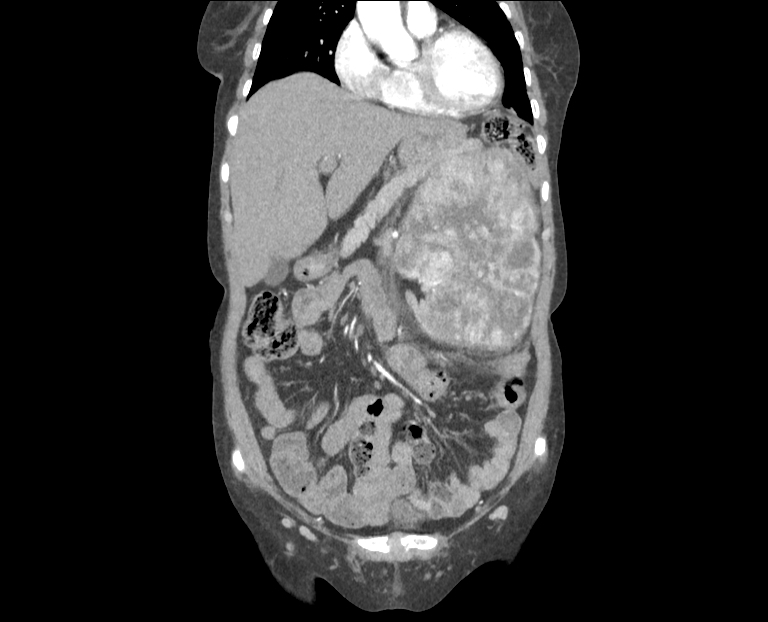
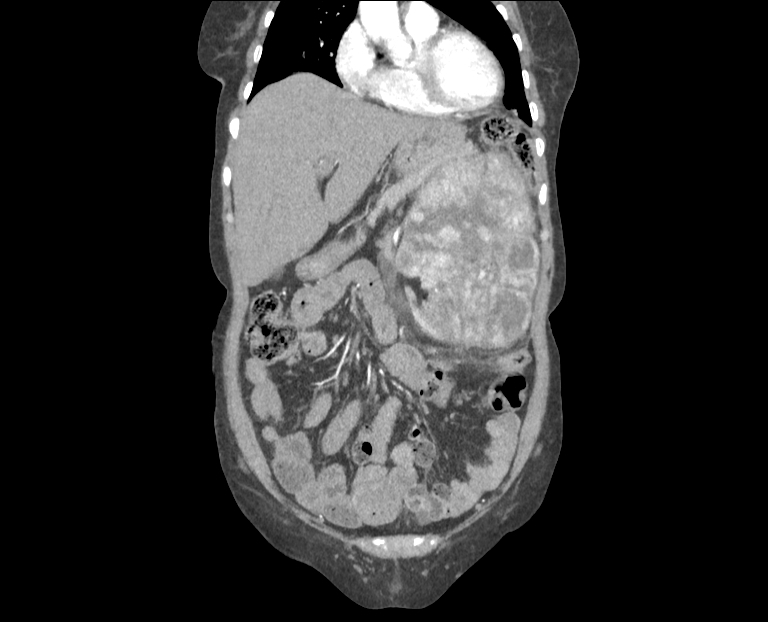
docker pipeline

diff --git a/README.md b/README.md
@@ -26,6 +26,7 @@ git clone https://github.com/surajkale99/kidney_dlproject.git
 
 pip install -r requirements.txt
 
+# mlflow==2.11.0   remove it from requirements.txt
 
 #   AWS-CICD-Deployment-with-Github-Actions
 # 
@@ -60,7 +61,7 @@ pip install -r requirements.txt
 
     
 ## 3. Create ECR repo to store/save docker image
-    - Save the URI:170533023526.dkr.ecr.ap-south-1.amazonaws.com/kidneyrep
+    - Save the URI:170533023526.dkr.ecr.ap-south-1.amazonaws.com/kidneyrepo
 
     
 ## 4. Create EC2 machine (Ubuntu) 
